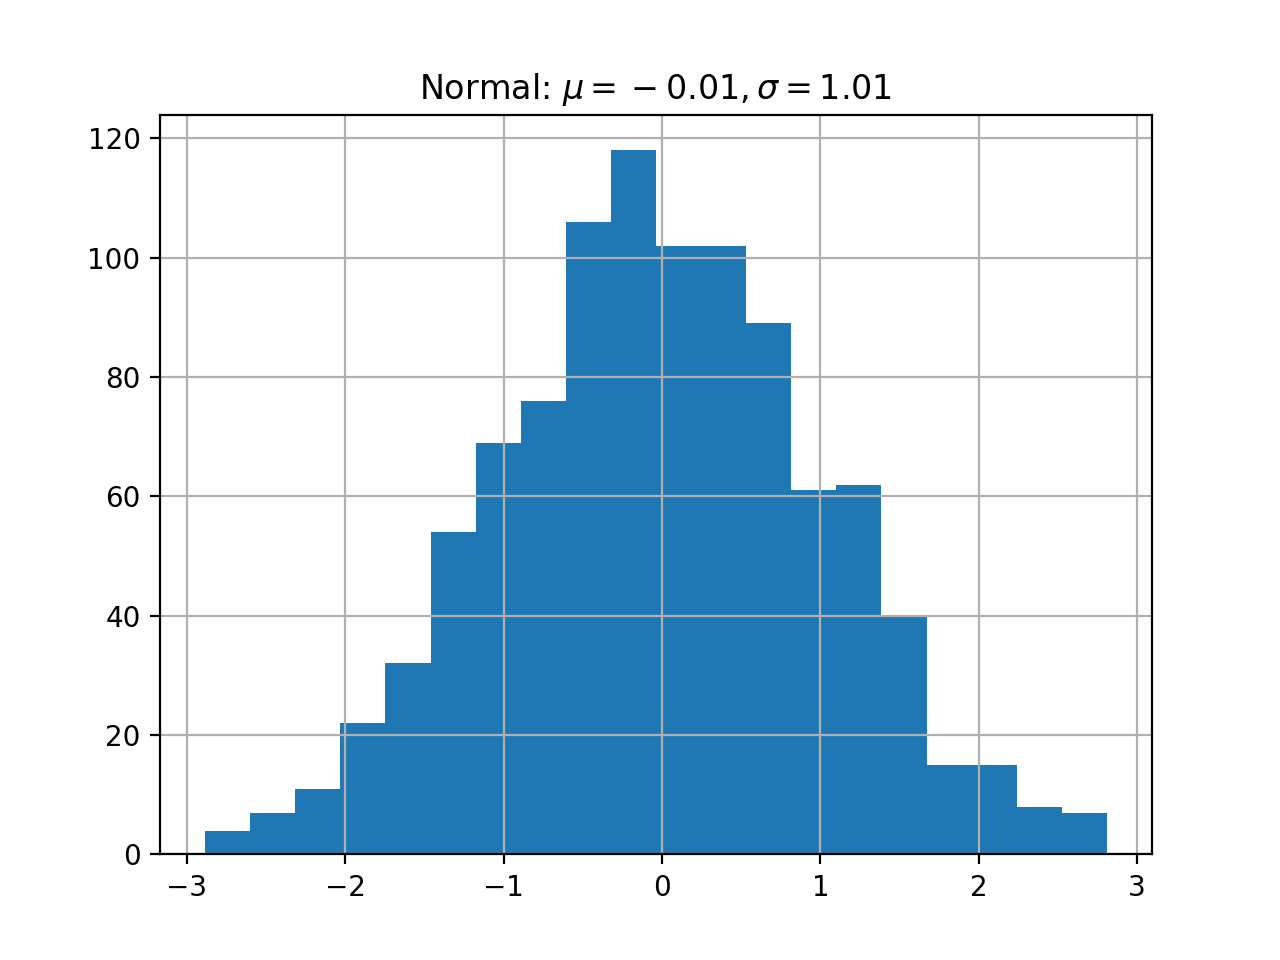
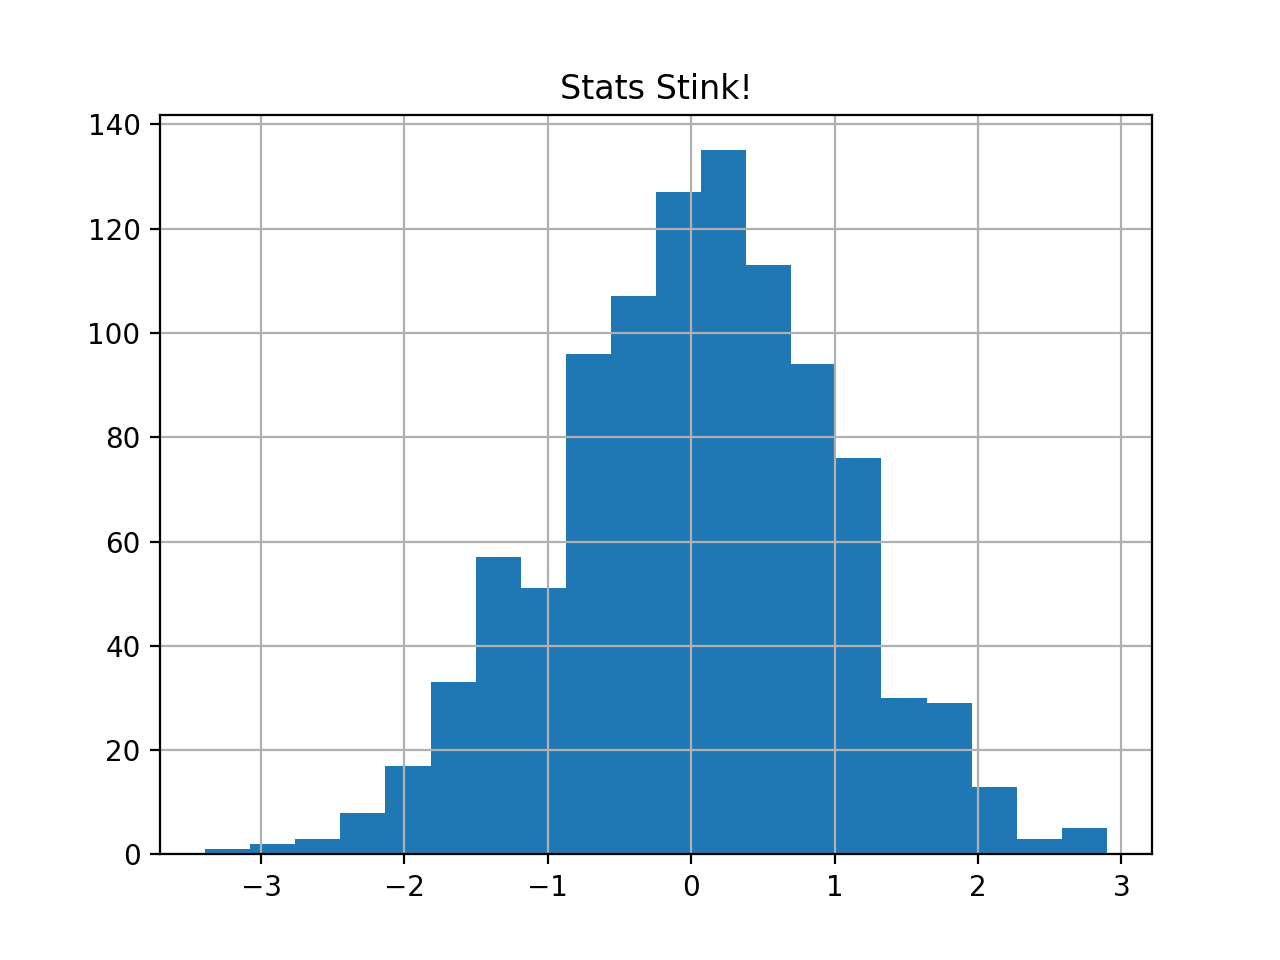
Generated gh-pages for commit 4d67c77 Author: jerichooconnell <jericho.oconnell@gmail.com>
building and pushing docs

diff --git a/includeme-1.py b/includeme-1.py
@@ -3,4 +3,4 @@ import numpy as np
 x = np.random.randn(1000)
 plt.hist( x, 20)
 plt.grid()
-plt.title(r'Normal: $\mu=%.2f, \sigma=%.2f$'%(x.mean(), x.std()))
+plt.title("Stats Stink!")
